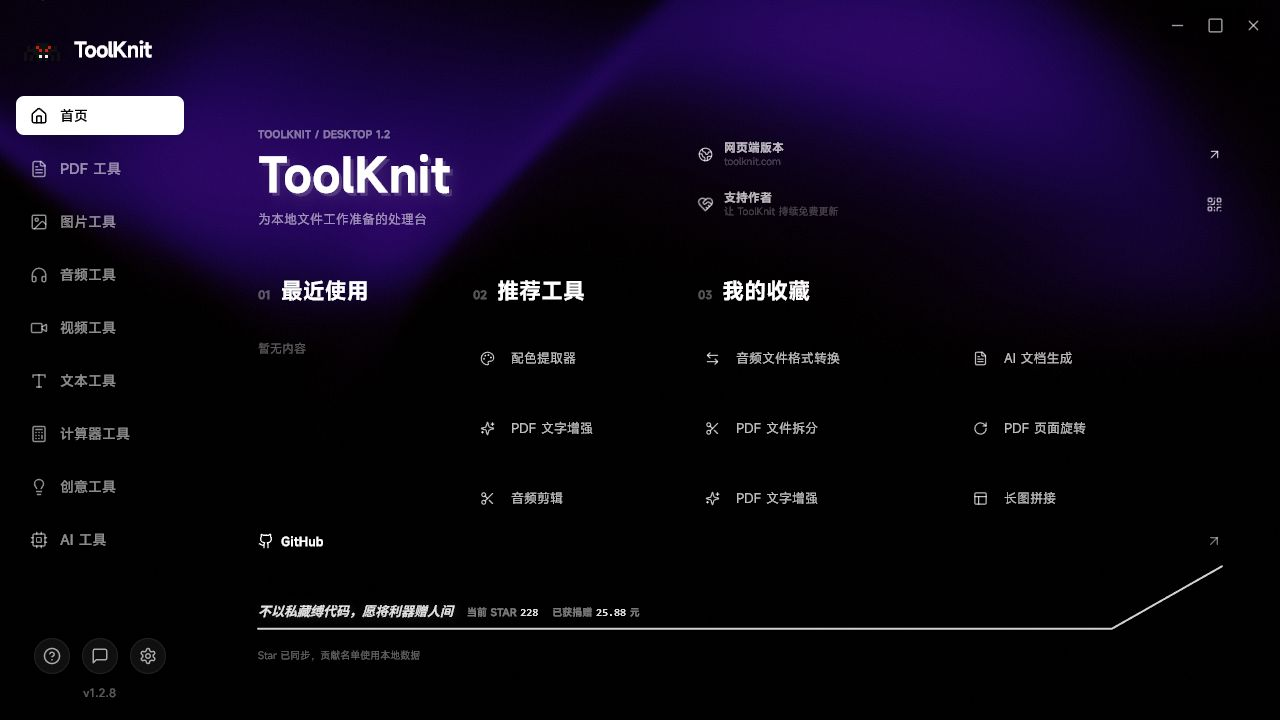
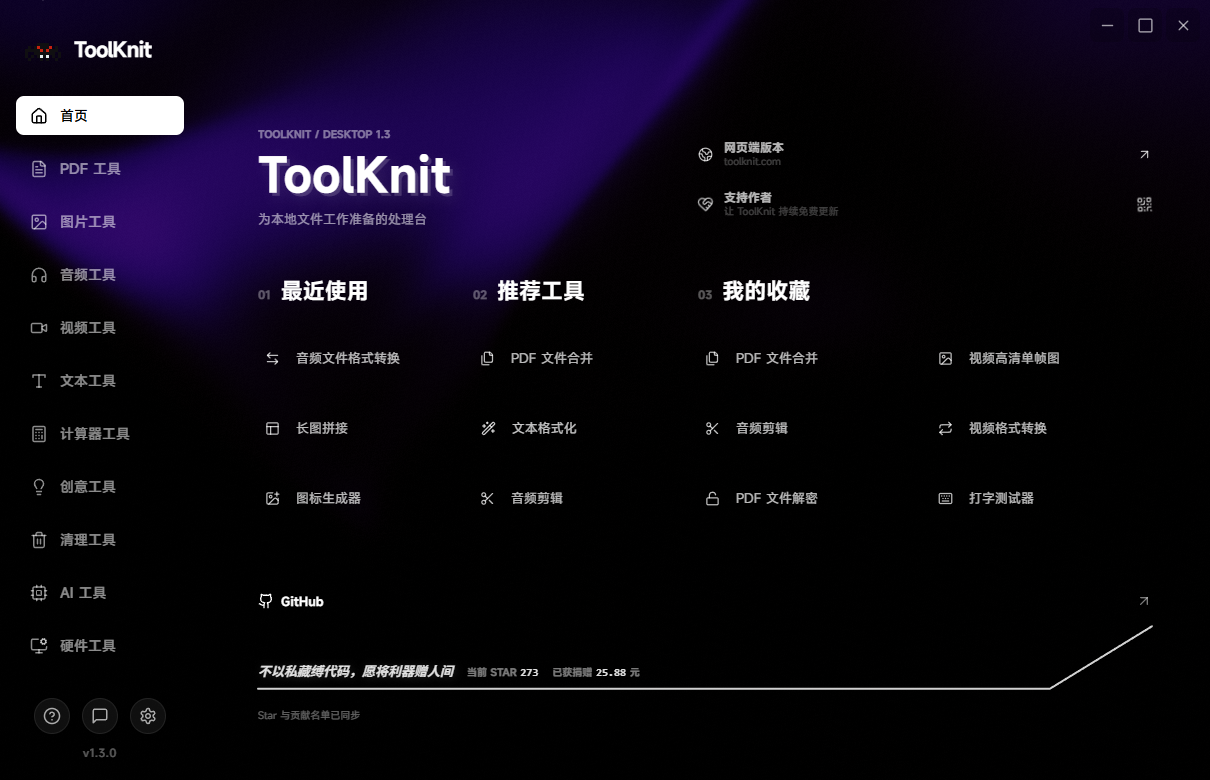
polish readme support block

diff --git a/README_EN.md b/README_EN.md
@@ -26,13 +26,33 @@
   A Windows app for PDFs, images, audio/video, text, AI documents, AI tables, CLI workflows, and IDE Agent automation. Files stay local by default.
 </p>
 
-<table>
+<table align="center" cellpadding="0" cellspacing="0" bgcolor="#0b0b0d" style="margin: 0 auto; border: 1px solid #2a2a31; border-radius: 18px; overflow: hidden;">
   <tr>
-    <td align="center" width="20%"><a href="README.md"><strong>简体中文</strong><br /><sub>Chinese README</sub></a></td>
-    <td align="center" width="20%"><a href="https://github.com/ZihangDong/toolknit-desktop/releases"><strong>Download Desktop</strong><br /><sub>Windows installer</sub></a></td>
-    <td align="center" width="20%"><a href="https://toolknit.com"><strong>Web Version</strong><br /><sub>toolknit.com</sub></a></td>
-    <td align="center" width="20%"><a href="#cli--ide-agent--mcp"><strong>CLI / Agent</strong><br /><sub>MCP workflow</sub></a></td>
-    <td align="center" width="20%"><a href="toolknit-desktop/docs/agent-guide.en.md"><strong>Agent Guide</strong><br /><sub>Examples</sub></a></td>
+    <td align="center" width="20%" bgcolor="#0b0b0d" style="padding: 16px 14px; border-right: 1px solid #23232a;">
+      <a href="README.md" style="color: #ffffff; text-decoration: none;">
+        <strong>简体中文</strong><br /><sub style="color: #cbd5e1;">Chinese README</sub>
+      </a>
+    </td>
+    <td align="center" width="20%" bgcolor="#0b0b0d" style="padding: 16px 14px; border-right: 1px solid #23232a;">
+      <a href="https://github.com/ZihangDong/toolknit-desktop/releases" style="color: #ffffff; text-decoration: none;">
+        <strong>Download Desktop</strong><br /><sub style="color: #cbd5e1;">Windows installer</sub>
+      </a>
+    </td>
+    <td align="center" width="20%" bgcolor="#0b0b0d" style="padding: 16px 14px; border-right: 1px solid #23232a;">
+      <a href="https://toolknit.com" style="color: #ffffff; text-decoration: none;">
+        <strong>Web Version</strong><br /><sub style="color: #cbd5e1;">toolknit.com</sub>
+      </a>
+    </td>
+    <td align="center" width="20%" bgcolor="#0b0b0d" style="padding: 16px 14px; border-right: 1px solid #23232a;">
+      <a href="#cli--ide-agent--mcp" style="color: #ffffff; text-decoration: none;">
+        <strong>CLI / Agent</strong><br /><sub style="color: #cbd5e1;">MCP workflow</sub>
+      </a>
+    </td>
+    <td align="center" width="20%" bgcolor="#0b0b0d" style="padding: 16px 14px;">
+      <a href="toolknit-desktop/docs/agent-guide.en.md" style="color: #ffffff; text-decoration: none;">
+        <strong>Agent Guide</strong><br /><sub style="color: #cbd5e1;">Examples</sub>
+      </a>
+    </td>
   </tr>
 </table>
 
@@ -219,6 +239,71 @@ If ToolKnit helps you, leaving a little support behind keeps testing, mirrors, d
   </tr>
 </table>
 
+## Page previews
+
+Category pages no longer need stitched long screenshots. A direct capture of each category page is cleaner and easier to update. All preview assets live in `assets/readme/categories/`; the naming guide is in [assets/readme/categories/README.md](assets/readme/categories/README.md).
+
+### Settings page
+
+<p align="center">
+  <img src="assets/readme/categories/shezhi.png" alt="ToolKnit settings page preview" width="100%" />
+</p>
+
+### Category screenshots
+
+<table>
+  <tr>
+    <td width="50%" valign="top">
+      <strong>PDF Tools</strong><br />
+      <img src="assets/readme/categories/category-pdf.png" alt="PDF tools category screenshot" width="100%" />
+    </td>
+    <td width="50%" valign="top">
+      <strong>Image Tools</strong><br />
+      <img src="assets/readme/categories/category-image.png" alt="Image tools category screenshot" width="100%" />
+    </td>
+  </tr>
+  <tr>
+    <td width="50%" valign="top">
+      <strong>Audio Tools</strong><br />
+      <img src="assets/readme/categories/category-audio.png" alt="Audio tools category screenshot" width="100%" />
+    </td>
+    <td width="50%" valign="top">
+      <strong>Video Tools</strong><br />
+      <img src="assets/readme/categories/category-video.png" alt="Video tools category screenshot" width="100%" />
+    </td>
+  </tr>
+  <tr>
+    <td width="50%" valign="top">
+      <strong>Text Tools</strong><br />
+      <img src="assets/readme/categories/category-text.png" alt="Text tools category screenshot" width="100%" />
+    </td>
+    <td width="50%" valign="top">
+      <strong>AI Tools</strong><br />
+      <img src="assets/readme/categories/category-ai.png" alt="AI tools category screenshot" width="100%" />
+    </td>
+  </tr>
+  <tr>
+    <td width="50%" valign="top">
+      <strong>Calculator Tools</strong><br />
+      <img src="assets/readme/categories/category-calculator.png" alt="Calculator tools category screenshot" width="100%" />
+    </td>
+    <td width="50%" valign="top">
+      <strong>Creative Tools</strong><br />
+      <img src="assets/readme/categories/category-creative.png" alt="Creative tools category screenshot" width="100%" />
+    </td>
+  </tr>
+  <tr>
+    <td width="50%" valign="top">
+      <strong>Hardware Tools</strong><br />
+      <img src="assets/readme/categories/category-hardware.png" alt="Hardware tools category screenshot" width="100%" />
+    </td>
+    <td width="50%" valign="top">
+      <strong>Cleanup Tools</strong><br />
+      <img src="assets/readme/categories/category-cleanup.png" alt="Cleanup tools category screenshot" width="100%" />
+    </td>
+  </tr>
+</table>
+
 ## Tools
 
 ### PDF
@@ -252,25 +337,6 @@ If ToolKnit helps you, leaving a little support behind keeps testing, mirrors, d
 
 Calculator tools and the typing test remain desktop-first because CLI/MCP would not add much value there.
 
-## Category Screenshot Placeholders
-
-Put one long screenshot for each category in `assets/readme/categories/` and use the names below:
-
-| Category | Suggested filename | Notes |
-| --- | --- | --- |
-| PDF | `assets/readme/categories/category-pdf.png` | Long screenshot for the PDF category. |
-| Image | `assets/readme/categories/category-image.png` | Long screenshot for the image category. |
-| Audio | `assets/readme/categories/category-audio.png` | Long screenshot for the audio category. |
-| Video | `assets/readme/categories/category-video.png` | Long screenshot for the video category. |
-| Text | `assets/readme/categories/category-text.png` | Long screenshot for the text category. |
-| AI | `assets/readme/categories/category-ai.png` | Long screenshot for the AI category. |
-| Calculator | `assets/readme/categories/category-calculator.png` | Long screenshot for the calculator category. |
-| Creative | `assets/readme/categories/category-creative.png` | Long screenshot for the creative category. |
-| Hardware | `assets/readme/categories/category-hardware.png` | Reserved for a hardware category screenshot. |
-| Cleanup | `assets/readme/categories/category-cleanup.png` | Reserved for a cleanup category screenshot. |
-
-See [assets/readme/categories/README.md](assets/readme/categories/README.md) for the full naming guide.
-
 ## Download and Usage
 
 ### Desktop App
@@ -285,6 +351,7 @@ In Settings, you can:
 - Configure DeepSeek/OpenAI-compatible AI providers.
 - Download FFmpeg and Whisper models from official or mirror sources.
 - Upload an image or video as the home/category background and restore the default animated background at any time.
+- View the support section to see public donation totals, recent donations, and QR-code entry points.
 
 ### Run from Source
 

diff --git a/assets/readme/categories/README.md b/assets/readme/categories/README.md
@@ -1,6 +1,8 @@
-# ToolKnit README category screenshots
+# ToolKnit README screenshots
 
-Put one merged long screenshot for each desktop category in this folder.
+Put the screenshots used by the GitHub README in this folder.
+
+Category pages no longer need stitched long images; a clean direct capture of each category page is fine.
 
 Recommended names:
 
@@ -16,5 +18,6 @@ Recommended names:
 | 创意工具 | `category-creative.png` |
 | 硬件工具 | `category-hardware.png` |
 | 清理工具 | `category-cleanup.png` |
+| 设置页 | `shezhi.png` |
 
 Keep images optimized for GitHub README display. PNG is preferred for crisp UI screenshots.
